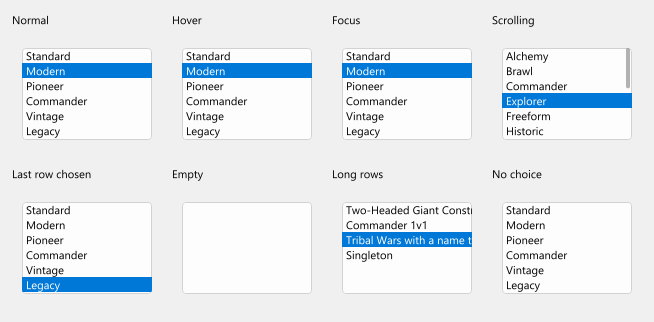
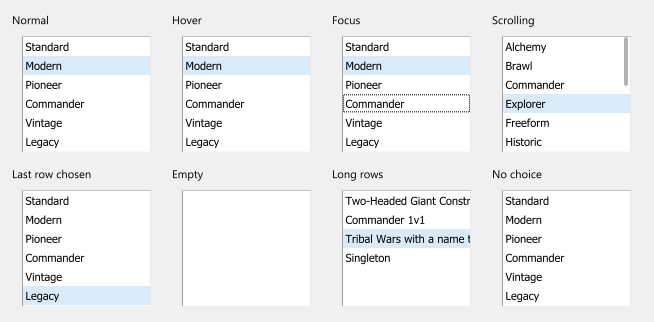
looks: Windows list box from the Customization window capture
v3 has no list box of its own, but its Customization window shows one at 100 percent: white rows 19
tall, a #C1C1C1 line above, #A1A1A1 left, #EAEAEA right and #F8F8F8 below, the chosen row #D9EBF9 and a
dotted focus rectangle round the focused row, Tahoma 11 px text. The old version derived a rounded
frame and a #0078D7 selection from the combo drop-down; those belong to the combo's popup only. The new
sheet list_box_dialog sits beside its crop (scripts/looks_refs_d.py).

diff --git a/scripts/looks_refs_d.py b/scripts/looks_refs_d.py
@@ -39,10 +39,20 @@ def sheet_size(columns, cw, ch, n):
             MARGIN * 2 + rows * (CAPTION + ch) + (rows - 1) * GAP)
 
 
+def pad_of(cell):
+    return cell[5] if len(cell) > 5 else PAD
+
+
+def shift_of(cell):
+    """Where the crop's top-left sits inside its cell (default the cell's corner)."""
+    return (cell[6], cell[7]) if len(cell) > 7 else (0, 0)
+
+
 def crop_of(cell):
-    src, x, y, w, h = cell
+    src, x, y, w, h = cell[:5]
+    pad = pad_of(cell)
     im = Image.open(os.path.join(DLG, src + "@1x.png")).convert("RGB")
-    return im.crop((x - PAD, y - PAD, x + w + PAD, y + h + PAD))
+    return im.crop((x - pad, y - pad, x + w + pad, y + h + pad))
 
 
 def make_ref(name):
@@ -53,7 +63,8 @@ def make_ref(name):
         if cell is None:
             continue
         ox, oy = cell_origin(columns, cw, ch, i)
-        out.paste(crop_of(cell), (ox, oy))
+        sx, sy = shift_of(cell)
+        out.paste(crop_of(cell), (ox + sx, oy + sy))
     path = os.path.join(ROOT, "docs/ui/looks/ref/windows", name + ".png")
     out.save(path)
     print("wrote", path, out.size)
@@ -66,6 +77,8 @@ def compare(name, out_dir):
         if cell is None:
             continue
         ox, oy = cell_origin(columns, cw, ch, i)
+        sx, sy = shift_of(cell)
+        ox, oy = ox + sx, oy + sy
         ref = crop_of(cell)
         got = ours.crop((ox, oy, ox + ref.width, oy + ref.height))
         worst, over2, over16, total = 0, 0, 0, 0
@@ -81,10 +94,11 @@ def compare(name, out_dir):
                 diff.putpixel((xx, yy), (min(255, d * 4),) * 3)
         print("%s cell %d %s: max %d, >2: %d, >16: %d of %d" % (name, i, cell[0], worst, over2, over16, total))
         zones = {}
-        _, _, _, w, h = cell
+        w, h = cell[3:5]
+        pad = pad_of(cell)
         for yy in range(ref.height):
             for xx in range(ref.width):
-                rx, ry = xx - PAD, yy - PAD
+                rx, ry = xx - pad, yy - pad
                 edge = min(rx, ry, w - rx, h - ry)
                 zone = "ring" if edge <= 2 else ("button" if rx >= w - 17 else "inside")
                 a, b = ref.getpixel((xx, yy)), got.getpixel((xx, yy))
@@ -117,6 +131,12 @@ SHEETS["image_combo_box_dialog"] = (1, 343, 29, [
     ("options-09-defaults", 371, 99, 335, 21),         # Condition
     ("options-05-internet-authentication", 371, 71, 189, 21),  # Authentication
     ("options-11-morph", 406, 278, 151, 21),           # Stretch
+])
+
+SHEETS["list_box_dialog"] = (1, 152, 287, [
+    # Customization > Columns: the 8 row list, first row chosen and focused (control at (0, 133)
+    # of its cell so that the harness's pointer, at the cell centre, lands on the first row)
+    ("view-show-columns", 14, 57, 152, 154, 0, 0, 133),
 ])
 
 if __name__ == "__main__":
